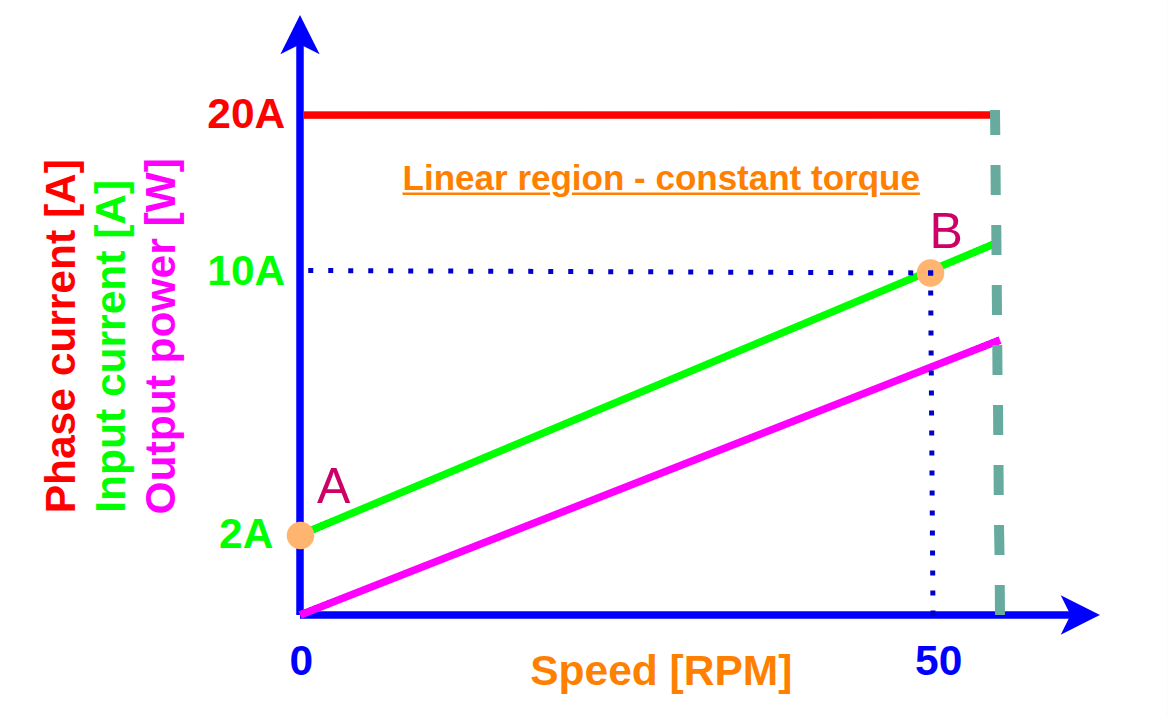
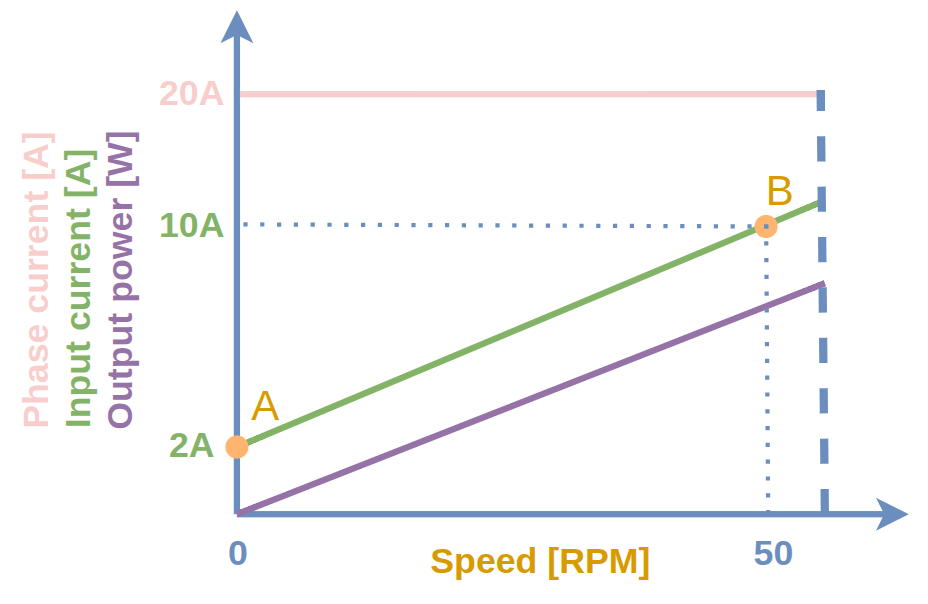
improved text and graphics

diff --git a/MD/measurements.md b/MD/measurements.md
@@ -31,8 +31,20 @@ ratio actuators (preferably below 9:1), that are easily back-drivable, to get an
 torque applied by the motor. In applications with higher gear ratios, the torque readout might be
 less accurate due to excessive friction in the gearbox.
 
-## Energy, input current and motor phase current
-The MD's come with cable set to connect it to power supply and CAN network, with usage of CANdle or to custom hardware. To avoid confusion during wiring it is important to understand the difference between motor phase current and input current from the power source. Input current depends strongly on the total mechanical power delivered by the actuator, so increasing the motor torque and velocity increases that quantity. In the case of motor phase current, it is produced by the motor controller, and the best way to imagine the relation is to think about the motor controller as a kind of three-phase rotating DC/DC converter - it sets the output current to the desired level by controlling the phase voltage with the PWM. This is achieved by the high frequency FOC loop that converts the desired torque into the voltage applied to the motor terminals. The generated torque is proportional to the motor phase current, but the input current depends on the power that transferred to the load. Relationship between output power, input current and motor phase current is presented below:
+## Power, input current and motor phase current
+
+Input current flows from the power supply into the controller. It increases when the motor works harder (more torque, higher speed). Think of it like fuel consumption in a car — the harder you push, the more you burn.
+
+Motor phase current is generated by the MD motor controller and directly determines motor torque. The controller regulates it via a high-frequency FOC loop — more phase current means more torque. Think of the controller as a three-phase DC/DC converter that sets the output current by adjusting the phase voltage through PWM.
+
+This relation can be described with following equantion:
+
+$P = I_{dc} \cdot U_{dc} = I_{phase} \cdot U_{dc} \cdot \text{PWM}_{duty}$
+
+In real drive system there are losses which are ommited for simplicity.
+
+
+Visual relationship between output power, input current and motor phase current is presented below:
 
 ```{figure} ./images/md_motor_wiring_diag.jpg
 :alt: candle
@@ -49,17 +61,6 @@ The MD's come with cable set to connect it to power supply and CAN network, with
 :class: no-scaled-link
 ```
 
-For simplicity only the linear operation region is presented. In case of FOC controlled actuator that means setting the reference value to Iq current regulator, while keeping the Id current at 0A - without field weakening - classic MTPA (maximum torque per amper). Relation between torque and Iq current is linear:
-
-$$
-\tau = K_t \cdot I_q
-$$
-where:
-- $\tau$ — motor torque,
-- $K_t$ — torque constant,
-- $I_q$ — quadrature axis current, aligned 90° electrically with the rotor flux,
-  directly proportional to the electromagnetic torque.
-
 ## Motor operating conditions: Case A vs Case B
 
 To illustrate the difference between two distinct motor operating conditions, two points are marked on the graph: **A** and **B**.
@@ -69,15 +70,14 @@ To illustrate the difference between two distinct motor operating conditions, tw
 | Parameter | Value |
 |---|---|
 | Torque / current setpoint | 20 A |
-| Motor state | Shaft blocked or heavily loaded (impedance mode control) |
+| Motor state | Shaft blocked or heavily loaded |
 | Speed | 0 RPM |
 | Input current | ~2 A — covers only system power losses |
 
 **Example scenarios:**
-- Actuators in a heavy-loaded robotic arm that don't move,
-- Actuators in a humanoid robot's arms during walking while holding heavy objects,
-- Actuators in a quadruped robot's legs during standing with heavy load on the back,
-- Actuators in an exoskeleton supporting a human during transport of heavy load in a fixed position.
+- Actuators in a loaded robotic arm that don't move,
+- Actuators in a humanoid robot's arms during walking while holding objects,
+- Actuators in a quadruped robot's legs during standing.
 
 > All these scenarios share the same load scheme — significant motor phase current, but no mechanical work done. Energy is lost as heat in the wires, motor controller, power supply, and primarily in the motor coil resistance. **Efficiency: 0%.**
 
@@ -91,85 +91,6 @@ To illustrate the difference between two distinct motor operating conditions, tw
 | Input current | ~10 A — covers losses **and** physical work |
 
 **Example scenarios:**
-- Actuators in a heavy-loaded robotic arm that move quickly,
-- Actuators in a humanoid robot's arms during lifting heavy objects,
-- Actuators in a quadruped robot's legs during running with heavy load on the back,
-- Actuators in an exoskeleton supporting a human during lifting heavy objects.
-
-### Why the same current means different power?
-
-In these scenarios, the motor spins and moves the load, so physical work is done.
-The efficiency depends on the quality of the motor, gearbox, motor controller,
-motor control algorithm, temperature, and many other conditions.
-
-To understand how the same torque/phase current can result in different power
-levels, we need to examine the mathematical model of the BLDC motor.
-The phase current equation is:
-
-$$
-I_{ph} = \frac{1}{R} \left( U_{ph} - L \frac{dI_{ph}}{dt} - K_e \, \omega \right)
-$$
-
-where:
-- $I_{ph}$ — phase current [A],
-- $R$ — phase winding resistance [Ω],
-- $U_{ph}$ — phase voltage [V],
-- $L$ — phase winding inductance [H]
-- $K_e$ — back-EMF constant [V·s/rad],
-- $\omega$ — angular velocity [rad/s].
-
-Back-EMF ($K_e \, \omega$) is proportional to the motor velocity. When the motor
-spins under load, the current regulator increases the applied voltage (higher
-PWM duty cycle) to maintain the same phase current. As both voltage and current
-are present, the electrical power delivered to the motor increases — represented
-by the area under the voltage and current curves.
-
-> **Power = $U_{ph} \times I_{ph}$**
->
-> At zero speed, $U_{ph}$ is small (only covering resistive losses),
-> so the power area is small despite the same current.
-> At 50 RPM, $U_{ph}$ must increase to overcome back-EMF,
-> expanding the power area significantly.
-
-### Operating conditions in mobile robots
-
-In mobile robots, operating conditions described above are usually mixed. For example:
-
-- **Legged robots** alternate between running (high torque and power) and standing
-  (low power, high torque),
-- **Wheeled robots** don't always accelerate — steady-state cruising draws
-  significantly less power than peak acceleration.
-
-This dynamic range makes thermal management and current budgeting critical
-across all actuator types.
-
-### Losses and power scaling — MD Motor Controllers
-
-For the MD motor controllers, switching and conduction losses are very similar
-in both operating scenarios (Case A and Case B). This is because most of the
-heat is dissipated in the MOSFETs themselves.
-
-At higher power levels, additional losses appear in:
-
-- **PCB power traces** — resistive heating scales with $I^2 R$
-- **Connectors** — contact resistance becomes significant at higher currents
-
-### Input current bottleneck
-
-Beyond the maximum phase current — which is limited by MOSFET losses and cooling
-efficiency — the **connector current rating** becomes the primary bottleneck in
-scaling output mechanical power.
-
-| Controller | Connector | Max Input Current | Limiting Factor |
-|---|---|---|---|
-| MD80 | Molex Micro Fit | 10 A | Connector rating |
-| MD20 | Molex Micro Lock + | 3.1 A | Connector rating |
-
-### Need more power?
-
-For higher power requirements, alternative connector solutions are available:
-
-- **Molex MicroFit Plus** for MD80 — higher current rating
-- Custom connector configurations on request
-
-Contact us to discuss your specific application requirements.
+- Actuators in a loaded robotic arm that move quickly,
+- Actuators in a humanoid robot's arms during lifting objects,
+- Actuators in a quadruped robot's legs during running.
